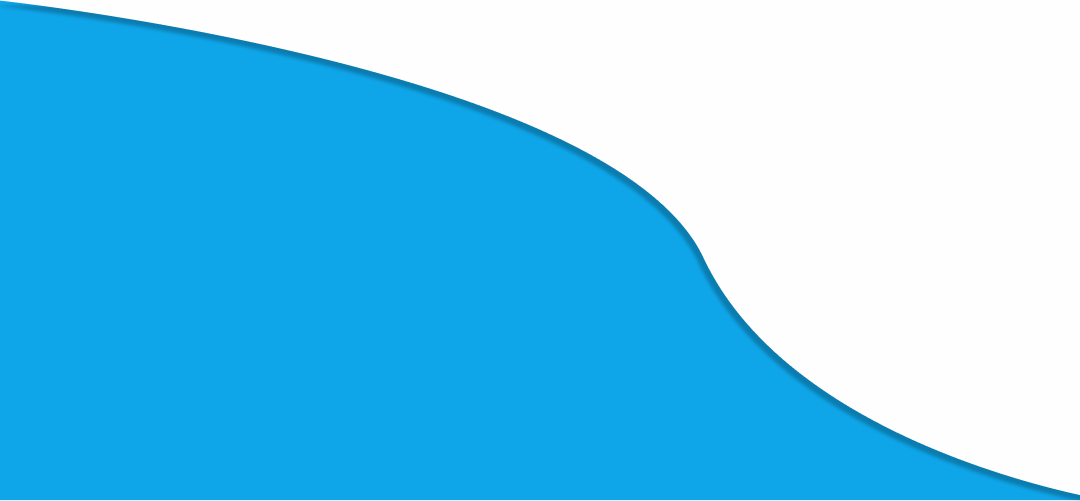
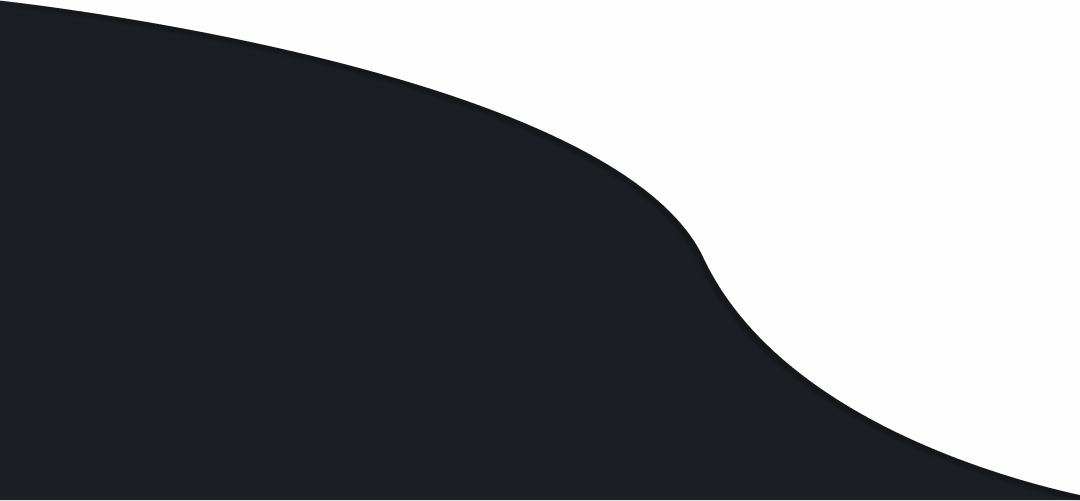
change color

diff --git a/01 Titan/index.html b/01 Titan/index.html
@@ -27,7 +27,7 @@
                 <img src="assets/img/favicon.png" alt="Wirodayan Digital" height="50px" width="50px">
                 <h3 class="font-semibold c4">Wirodayan Digital</h3>
             </a>
-            <div id="sub-nav" class="w-[50%] max-w[50%] flex lg:justify-end lg:items-center z-2">
+            <div id="sub-nav" class="w-[50%] max-w[50%] flex lg:justify-end lg:items-center z-1">
                 <div id="sub1" class="flex justify-center items-center gap-3">
                     <a class="nav-list" href="#client">
                         Klien
@@ -167,7 +167,7 @@
                     <li>Pihak konsumen akan diberikan pengenalan dan pembimbingan dalam penggunaan aplikasi</li>
                 </ol>
             </div>
-            <div class="col-lg-5 col-md-12 p-10">
+            <div class="col-lg-5 col-md-12 lg:p-10 px-10">
                 <h3 class="font-bold text-[32px]">Feedback</h3>
                 <ol>
                     <p>Wirodayan Digital siap mengakomodasi jika ada keluhan dari konsumen.</p>
@@ -176,9 +176,9 @@
         </div>
     </section>
 
-    <section id="mechanisme" class="w-full c4 p-[30px]">
+    <section id="mechanisme" class="w-full c4 px-[30px]">
         <div class="row justify-center w-full text-center">
-            <div class="col-lg-10 flex flex-col items-stretch p-10">
+            <div class="col-lg-10 flex flex-col items-stretch px-10 pt-0 pb-5">
                 <h3 class="font-bold text-[32px] text-left">Mechanisme</h3>
                 <div class="mechanismeContainer">
                     <picture>
@@ -246,10 +246,10 @@
         </div>
     </section>
 
-    <footer class="w-full c4 px-5 pt-3 pb-3 bg1">
+    <footer class="w-full c4 px-5 pt-3 pb-3 bg1 mt-3">
         <div class="row justify-center gap-3">
             <div class="col-lg-5">
-                <h3 class="text-center font-bold text-[32px]">Informasi</h3>
+                <h3 class="text-center font-bold text-[32px] mb-3">Informasi</h3>
                 <div class="info-group">
                     <h3 class="font-bold lg:text-lg md:text-md">Website</h3>
                     <p>Harga website perusahaan dan custom</p>

diff --git a/01 Titan/assets/css/desktop.css b/01 Titan/assets/css/desktop.css
@@ -67,8 +67,9 @@
 }
 #action-button{
     width: fit-content;
-    background-color: var(--c4);
-    color: var(--c1);
+    background-color: var(--c32);
+    background-color: white;
+    color: var(--c4);
     font-weight: 500;
     padding: 10px 20px;
     border-radius: 20px;
@@ -112,58 +113,4 @@
 .my-shadow:hover {
     box-shadow: 0 0 10px rgba(0, 0, 0, .25);
 }
-
-/* Fliper */
-.flip-box {
-    background-color: transparent;
-    width: 100%;
-    height: 100%;
-    perspective: 1000px;
-}
-
-.flip-box-inner {
-    /* position: relative; */
-    width: 100%;
-    height: 100%;
-    text-align: center;
-    transition: transform 0.4s;
-    transform-style: preserve-3d;
-}
-
-.flip-box:hover .flip-box-inner {
-    transform: rotateY(180deg);
-}
-
-.flip-box-front,
-.flip-box-back {
-    /* position: absolute; */
-    width: 100%;
-    height: 100%;
-    /* -webkit-backface-visibility: hidden; */
-    /* Untuk web safari */
-    /* backface-visibility: hidden; */
-}
-
-.flip-box-front {
-    border-radius: 50%;
-    color: var(--c4);
-}
-/* 
-.flip-box-front > img{
-    width: 80px;
-    height: 80px;
-} */
-
-.flip-box-back {
-    border-radius: 50%;
-    background-color: var(--c4);
-    color: white;
-    transform: rotateY(180deg);
-    display: flex;
-    justify-content: center;
-    align-items: center;
-    padding: 20px;
-}
-/* End custom */
-
 /* End Desktop responsive */

diff --git a/01 Titan/assets/css/phone.css b/01 Titan/assets/css/phone.css
@@ -14,6 +14,7 @@
     }
 
     #navbar{
+        padding: 0;
         position: relative;
         flex-direction: column;
         align-items: start;
@@ -30,22 +31,31 @@
         width: 100%;
         max-width: 100%;
         flex-direction: column;
-        align-items: start;
+        justify-content: center;
+        align-items: center;
+        padding-bottom: 10px;
     }
     .nav-list{
-        width: 100%;
+        width: 90%;
         padding: 0 auto;
+        border-radius: 10px;
     }
 
     #title-nav{
+        width: 100%;
+        /* height: 70px; */
         display: flex;
         justify-content: start;
         gap: 0;
+        padding: 10px 20px;
+        background-color: #fff;
+        box-shadow: 0 4px 4px rgba(0,0,0,.25);
     }
 
     #jumbotron{
-        min-height: 90vh;
-        background: radial-gradient(var(--c32),var(--c3));
+        min-height: calc(100vh - 60px);
+        /* background: radial-gradient(var(--c3) 20%,var(--c1)); */
+        background-color: var(--c1);
         padding: 30px;
         display: flex;
         flex-direction: column;
@@ -94,5 +104,8 @@
         width: 70%;
     }
 
+    .info-group{
+        margin: 10px auto;
+    }
 }
 /* End Handphone responsive */

diff --git a/01 Titan/dist/output.css b/01 Titan/dist/output.css
@@ -769,6 +769,26 @@ video {
   padding-bottom: 0.75rem;
 }
 
+.px-10 {
+  padding-left: 2.5rem;
+  padding-right: 2.5rem;
+}
+
+.py-5 {
+  padding-top: 1.25rem;
+  padding-bottom: 1.25rem;
+}
+
+.px-\[30px\] {
+  padding-left: 30px;
+  padding-right: 30px;
+}
+
+.py-0 {
+  padding-top: 0px;
+  padding-bottom: 0px;
+}
+
 .pb-0 {
   padding-bottom: 0px;
 }
@@ -787,6 +807,14 @@ video {
 
 .pt-5 {
   padding-top: 1.25rem;
+}
+
+.pt-0 {
+  padding-top: 0px;
+}
+
+.pb-5 {
+  padding-bottom: 1.25rem;
 }
 
 .text-left {
@@ -887,6 +915,24 @@ video {
     justify-content: center;
   }
 
+  .sm\:py-2 {
+    padding-top: 0.5rem;
+    padding-bottom: 0.5rem;
+  }
+
+  .sm\:py-3 {
+    padding-top: 0.75rem;
+    padding-bottom: 0.75rem;
+  }
+
+  .sm\:pb-5 {
+    padding-bottom: 1.25rem;
+  }
+
+  .sm\:pt-0 {
+    padding-top: 0px;
+  }
+
   .sm\:text-sm {
     font-size: 0.875rem;
     line-height: 1.25rem;
@@ -946,6 +992,10 @@ video {
 
   .lg\:justify-center {
     justify-content: center;
+  }
+
+  .lg\:p-10 {
+    padding: 2.5rem;
   }
 
   .lg\:text-lg {

diff --git a/01 Titan/assets/css/base.css b/01 Titan/assets/css/base.css
@@ -7,7 +7,8 @@
 :root {
     --c1: rgba(255, 255, 255, 1);
     --c2: #BAD1C2;
-    --c3: rgba(14,165,233,1);
+    /* --c3: rgba(14,165,233,1); */
+    --c3: #1b1e23;
     --c32:#7dd3fc;
     --c4: #153462;
     --shadow-dark:0 0 15px rgba(0, 0, 0, .3);
